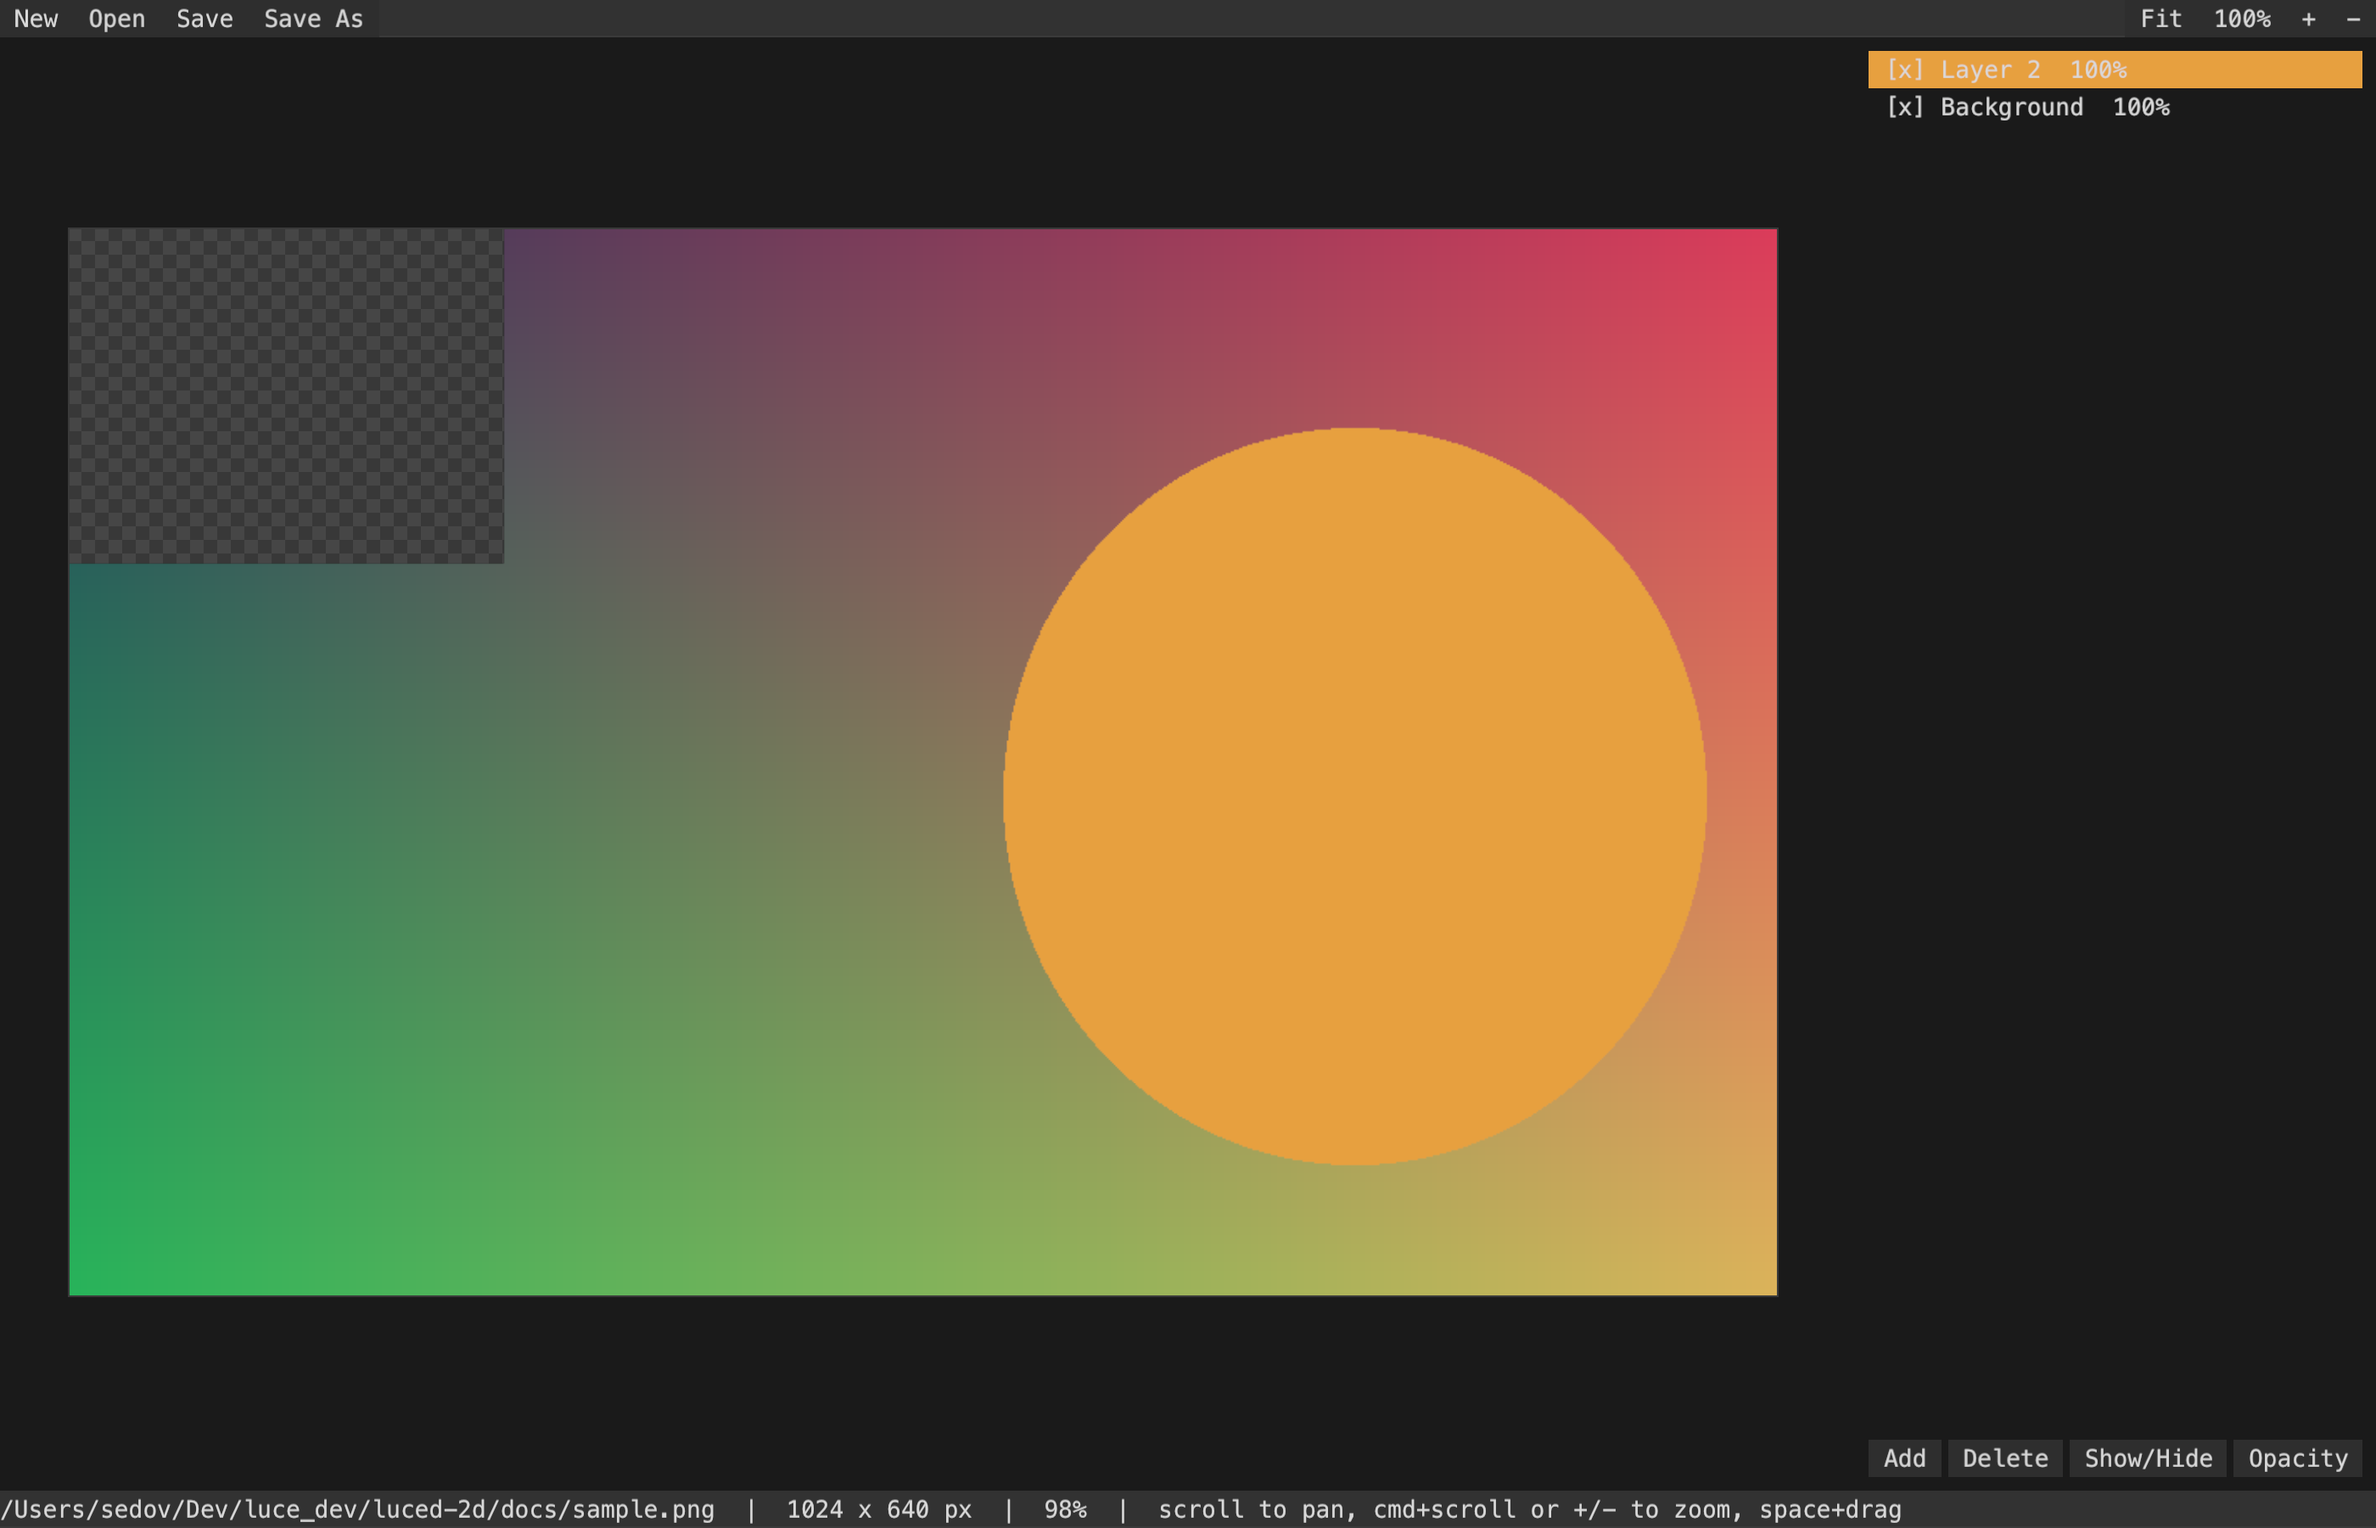
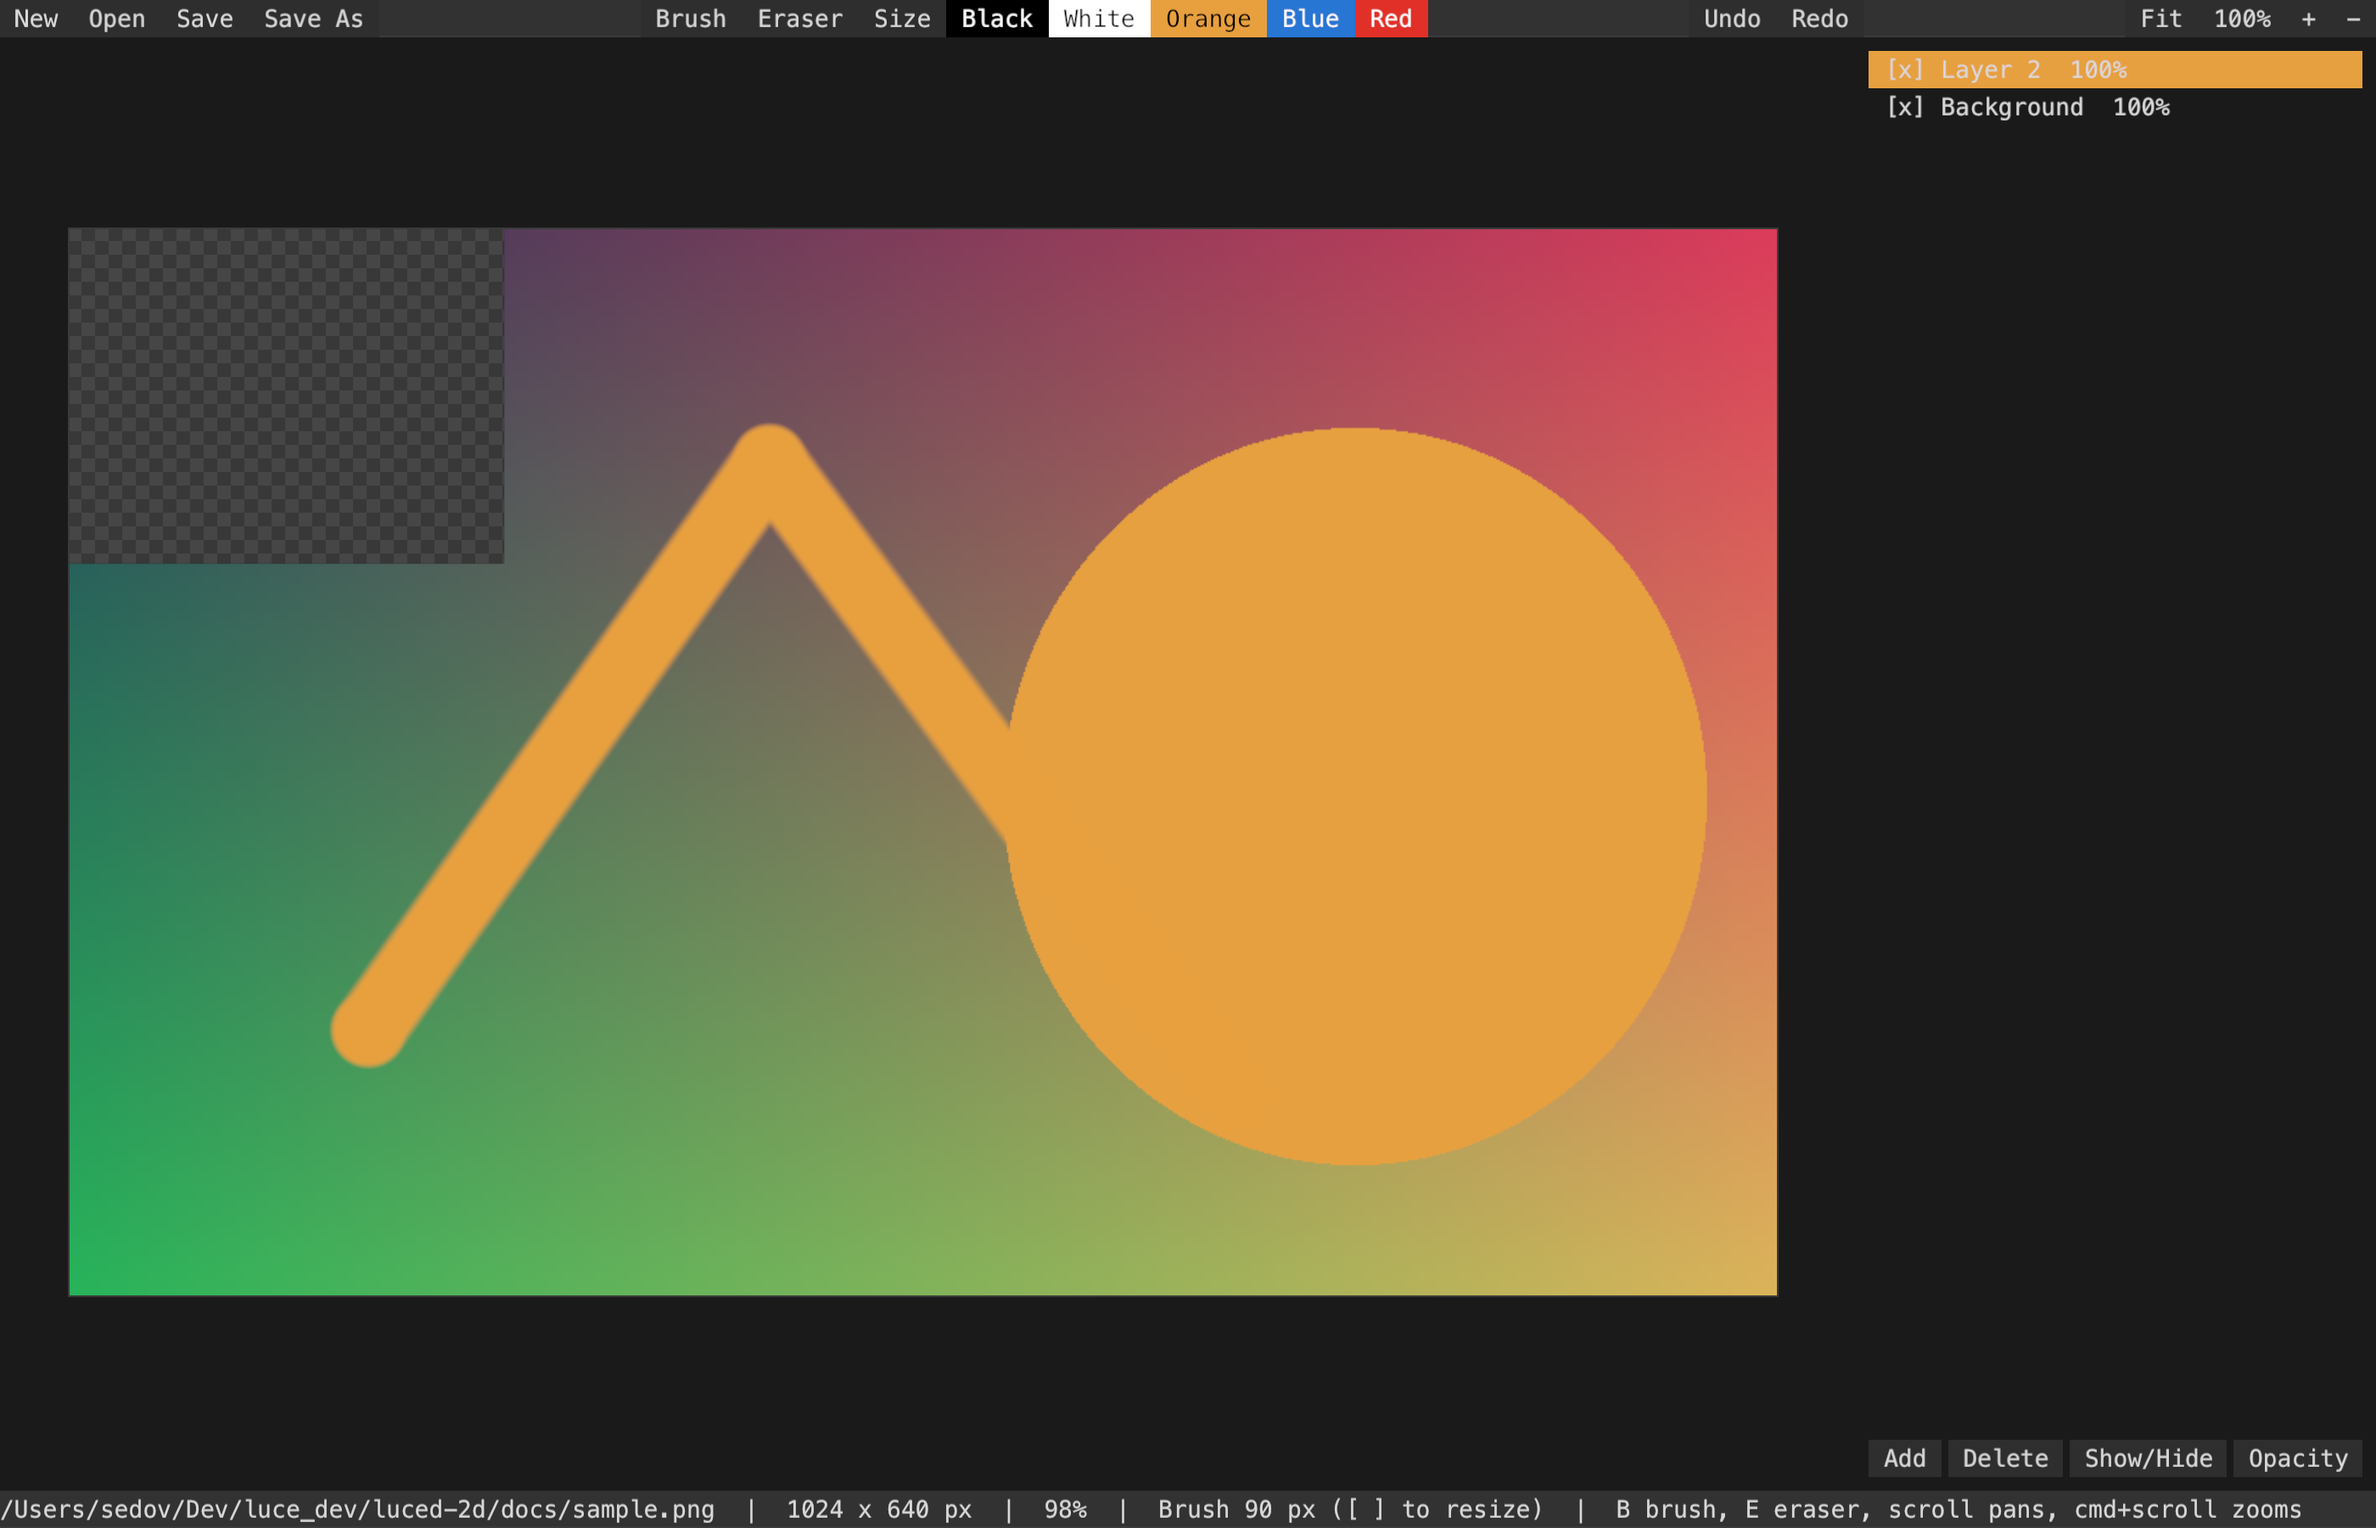
Brush and eraser tools with undo
Claude-Session: https://claude.ai/code/session_01KSvf935cywg8wGYHPcyZf9

diff --git a/tools/preview.py b/tools/preview.py
@@ -76,6 +76,20 @@ pub func main(arguments: list[str]) -> int!:
     let observed = editor.app.on_frame(func (elapsed: float) -> unit!:
         discard(elapsed)
         frames += 1
+        if frames == 4:
+            editor.workspace.set_color(0.8069, 0.3515, 0.0497)
+            editor.workspace.diameter = 48.0
+            editor.workspace.begin_stroke(180.0, 480.0)
+            editor.workspace.extend_stroke(420.0, 140.0)
+            editor.workspace.extend_stroke(700.0, 520.0)
+            editor.workspace.end_stroke()
+            editor.workspace.erasing = true
+            editor.workspace.diameter = 90.0
+            editor.workspace.begin_stroke(760.0, 320.0)
+            editor.workspace.extend_stroke(900.0, 360.0)
+            editor.workspace.end_stroke()
+            editor.workspace.erasing = false
+            editor.panels.refresh()
         if captured:
             editor.app.stop()
         elif frames >= 12:

diff --git a/README.md b/README.md
@@ -13,6 +13,8 @@ the order of work are in [docs/DESIGN.md](docs/DESIGN.md).
 - Opens PNG, JPEG, TIFF and EXR pictures as a document, or creates an empty one.
 - Layers with names, visibility and opacity, composed on the GPU with a cache
   that re-renders only the tiles an edit touches.
+- Brush and eraser (`B`, `E`, `[` `]` for size) painted on the GPU with soft
+  edges and no dab artefacts; undo and redo of strokes.
 - Pan with scroll or space-drag, zoom about the pointer with cmd/ctrl-scroll,
   `+`/`-`, Fit and 100%; pixels stay crisp when magnified.
 - Saves the flattened document to PNG, JPEG or TIFF.
